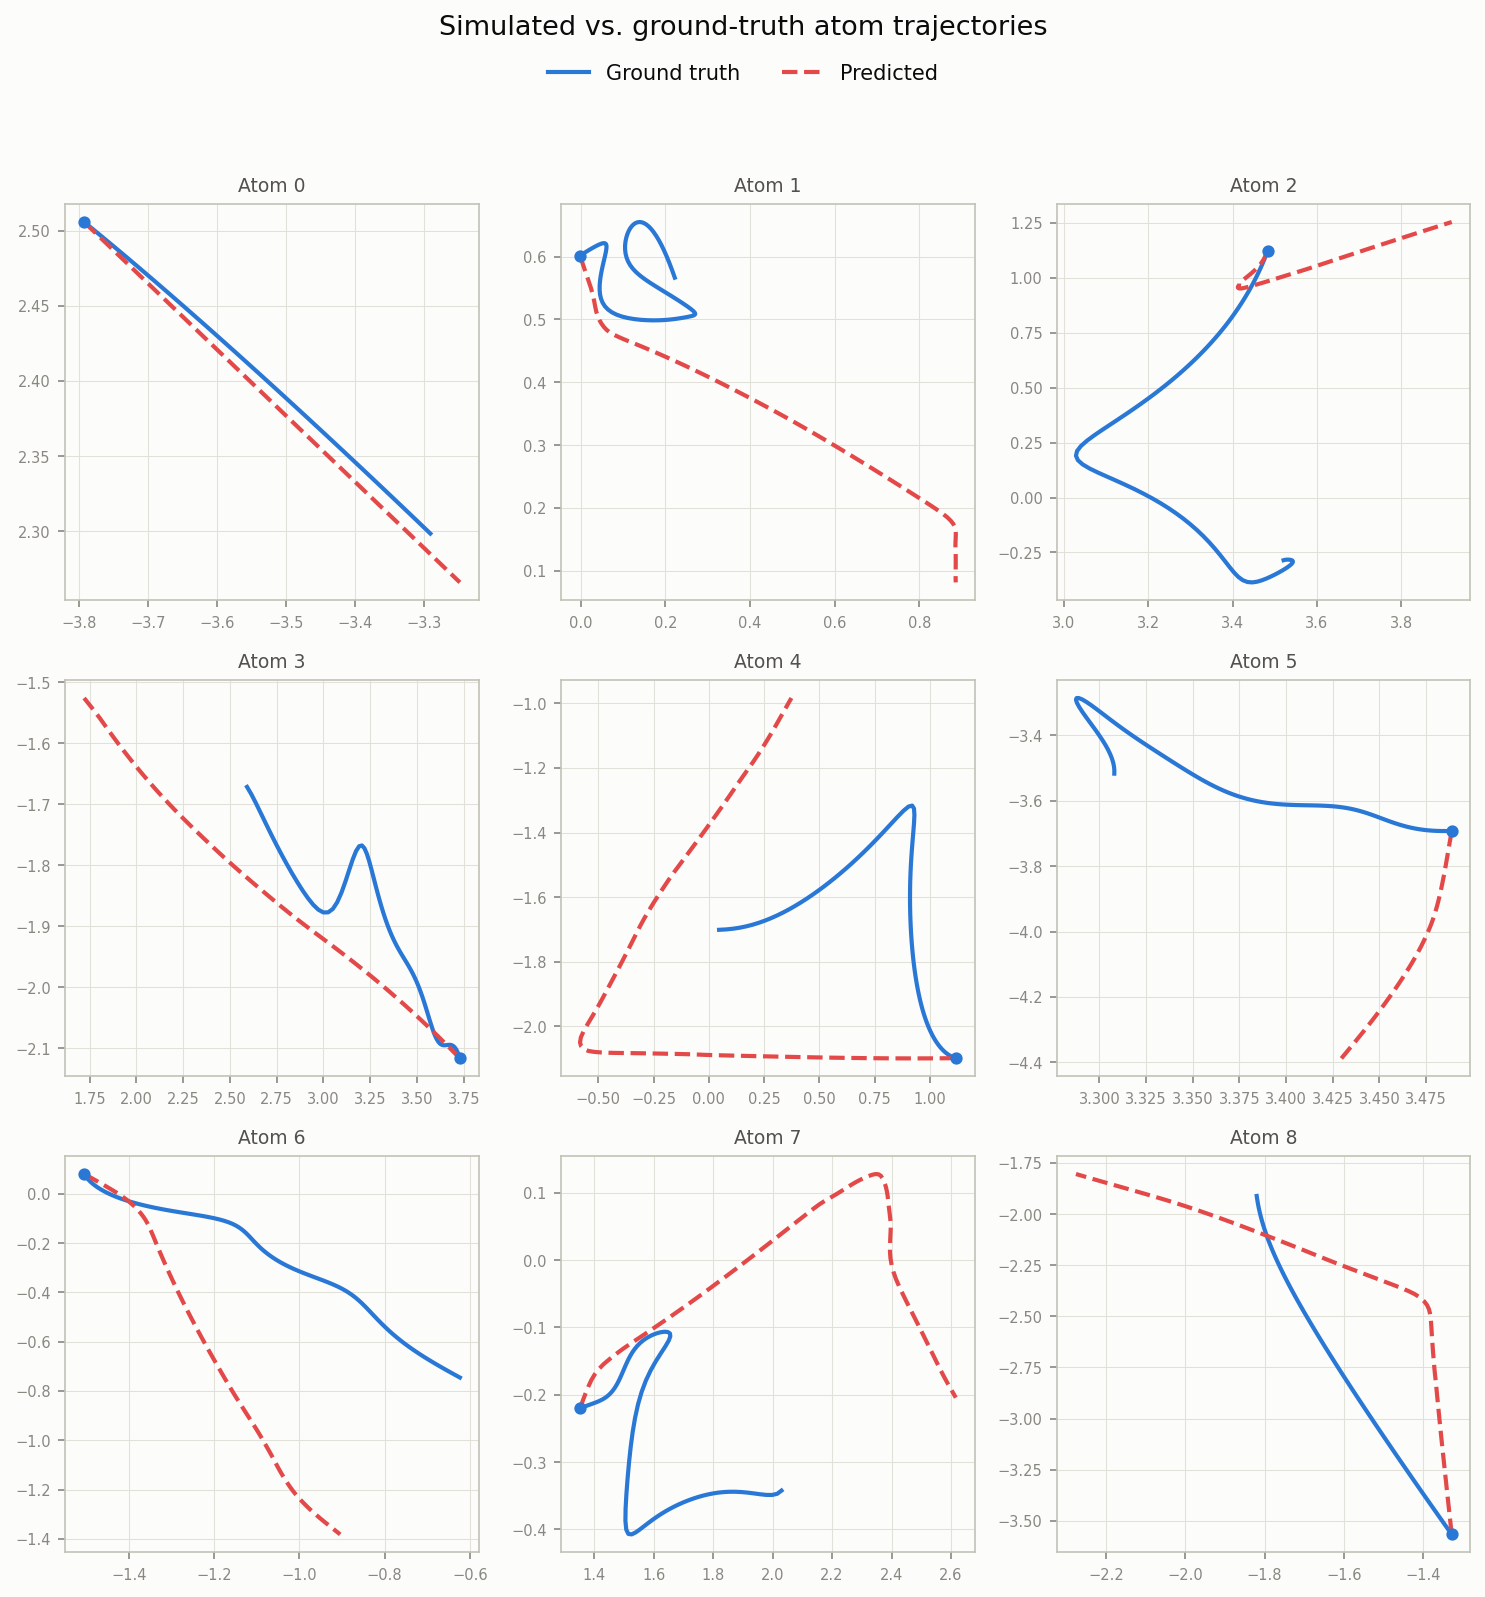
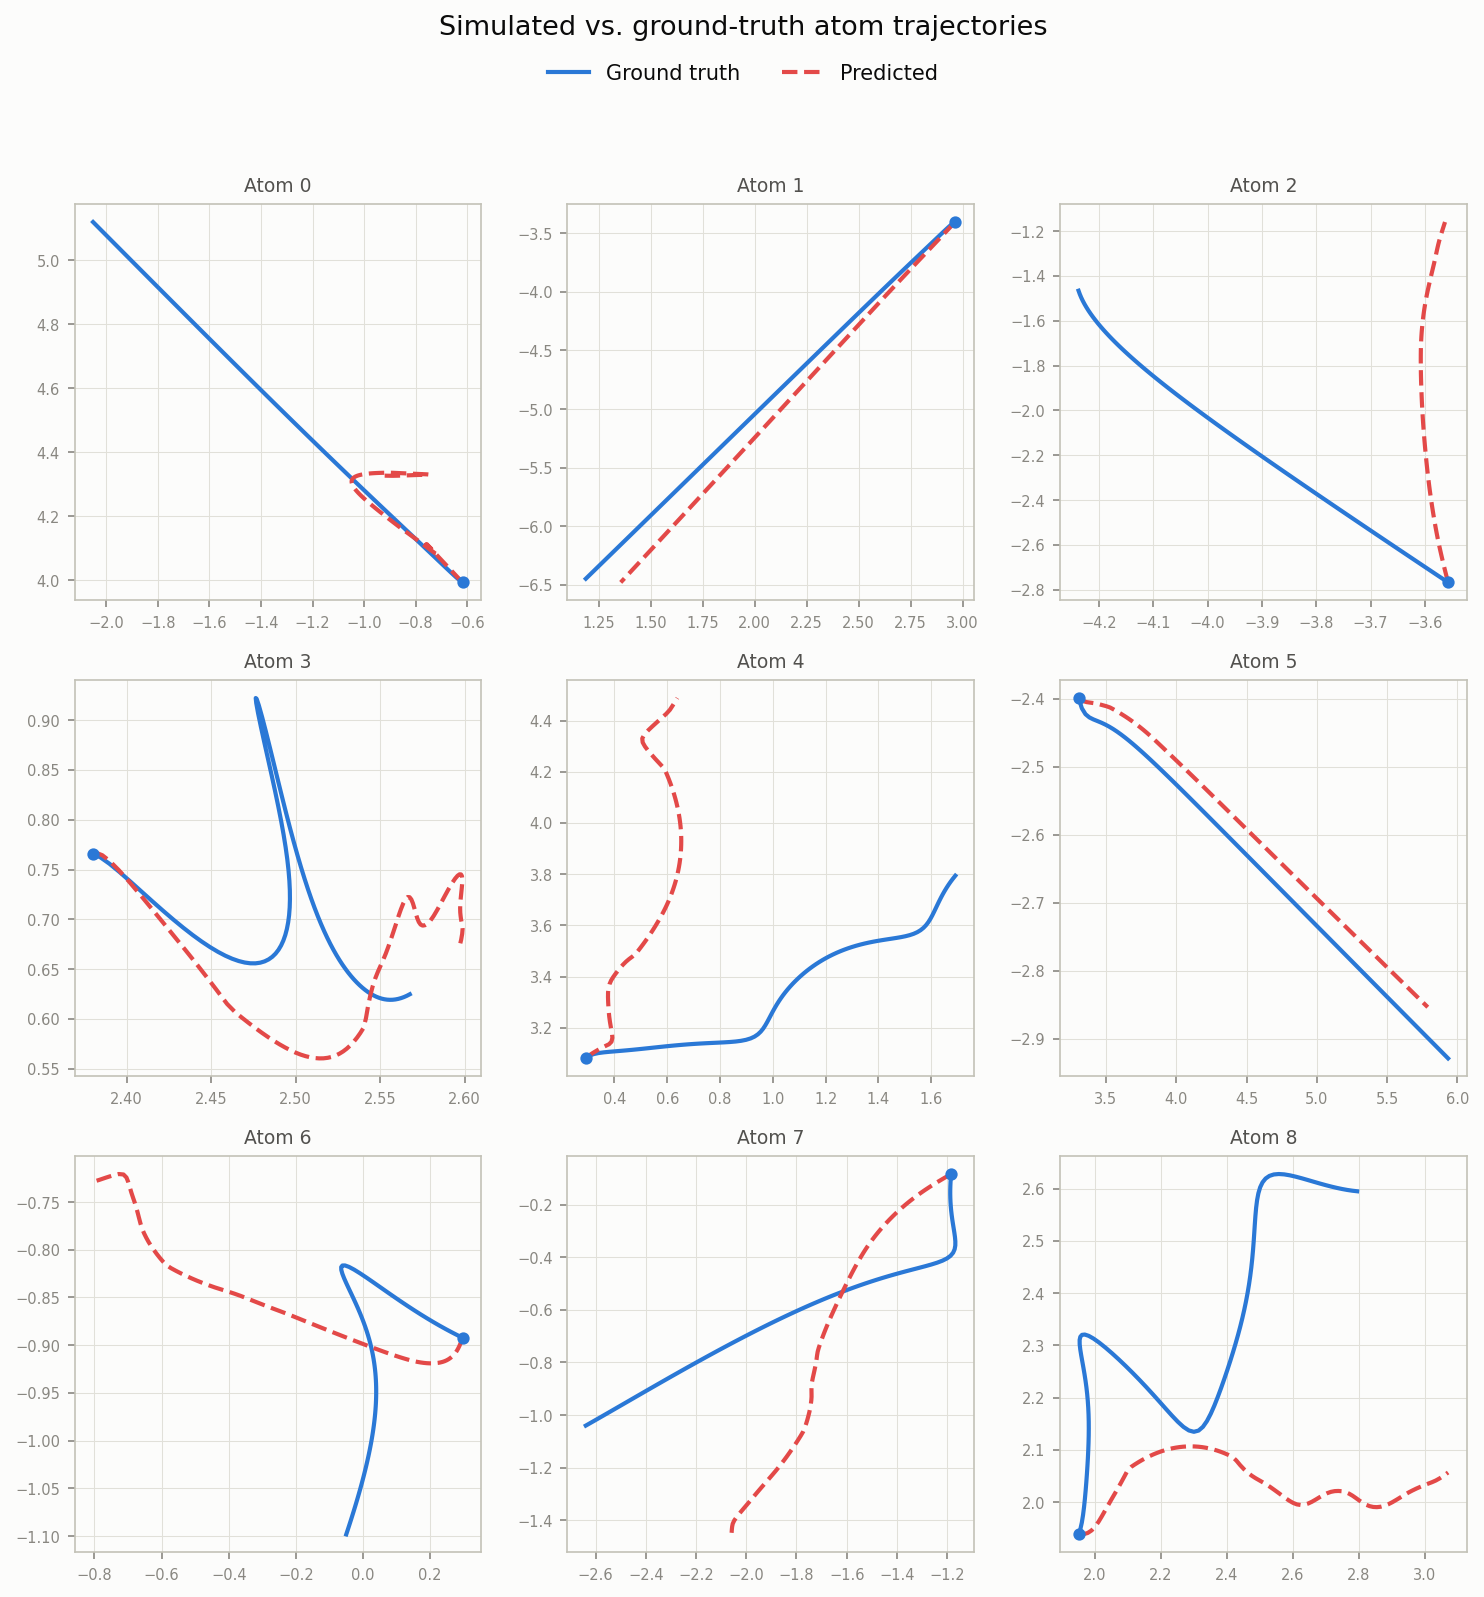
some edits for gnn

diff --git a/GNN/datagen2.py b/GNN/datagen2.py
@@ -1,0 +1,129 @@
+import numpy as np
+import torch
+from torch.utils.data import DataLoader, Dataset
+from glob import glob
+#add force to the data for training
+class molecule():
+    def __init__(self, sigma, epsilon, mass):
+        self.sigma = sigma #radius
+        self.epsilon = epsilon #polarizability
+        self.mass = mass
+        
+sample_molecules = [molecule(0.8, 0.7, 0.2), molecule(1.0, 1.0, 0.3), molecule(1.2, 1.4, 0.6), molecule(1.4, 1.9, 0.4), molecule(1.6, 2.5, 0.9)]
+
+def compute_params(i, j):
+    sigma = (sample_molecules[i].sigma + sample_molecules[j].sigma) / 2
+    epsilon = np.sqrt(sample_molecules[i].epsilon * sample_molecules[j].epsilon)
+    return sigma, epsilon
+    
+def compute_energy(positions, species):
+    V = 0
+    for i in range(9):
+        for j in range(i + 1, 9):
+            coord1 = positions[i]
+            coord2 = positions[j]
+            r = np.linalg.norm(np.array(coord1) - np.array(coord2))
+            sigma, epsilon = compute_params(species[i], species[j])
+            V_local = 4 * epsilon * ((sigma / r) ** 12 - (sigma / r) ** 6)
+            V += V_local
+            
+    return V
+    
+def compute_forces(positions, species): 
+    forces = np.zeros((9, 2))
+    for i in range(9):
+        for j in range(i + 1, 9):
+            #force on molecule i from molecule j
+            # negative of force on mol j by mol i by newtons 3rd law
+            coord1 = positions[i]
+            coord2 = positions[j]
+            r = np.linalg.norm(np.array(coord1) - np.array(coord2))
+            r_vec = np.array(coord1) - np.array(coord2)
+            sigma, epsilon = compute_params(species[i], species[j])
+            magnitude = 24 * epsilon / r * (2 * (sigma / r) ** 12 - (sigma / r) ** 6) #derivative of energy
+            forces[i] += magnitude * r_vec / r
+            forces[j] -= magnitude * r_vec / r
+    return forces
+
+def generate_random_configs():
+    #put 9 random molecules at random coordinates
+    #return species identities and positions
+    valid = False
+    while (not valid): #loop until valid config found
+        species = np.random.randint(0, 5, size=9)
+        positions = np.random.uniform(-4, 4, size=(9, 2))
+        valid = True
+        for i in range(9):
+            for j in range(i + 1, 9):
+                sigma, epsilon = compute_params(species[i], species[j])
+                coord1 = positions[i]
+                coord2 = positions[j]
+                r = np.linalg.norm(np.array(coord1) - np.array(coord2))
+                if (r < 0.85 * sigma):
+                    valid = False
+                    break
+            if (not valid):
+                break
+    
+    return species, positions
+    
+def gen_trajectory():
+    n = 1000 #1000 steps of trajectory
+    dt = 0.001 #timestepping size
+    species, positions = generate_random_configs()
+    velocities = np.random.normal(0, 1, size=(len(species), 2))
+    velocities -= velocities.mean(axis=0)  # remove net drift
+    init_velocities = velocities
+    forces = compute_forces(positions, species)
+    
+    masses = np.array([sample_molecules[species[i]].mass for i in range(9)])[:, None]  # shape (9, 1)
+    pos_vector = []
+    pos_vector.append(positions.copy())
+    for t in range(1, n):
+        positions += velocities * dt + 0.5 * forces / masses * (dt ** 2)
+        new_forces = compute_forces(positions, species)
+        velocities += 0.5 * (forces + new_forces)/ masses * dt
+        forces = new_forces
+            
+        if (t % 10 == 0):
+            pos_vector.append(positions.copy())
+            
+    return species, pos_vector, init_velocities
+
+
+class DATASET(Dataset):
+    def __init__(self, n=25000, energy_mean=None, energy_std=None, force_std=None):
+        self.examples = []
+        for i in range(n):
+            species, positions = generate_random_configs()
+            target_energy = compute_energy(positions, species)
+            target_force = compute_forces(positions, species)
+            self.examples.append((species, positions, target_energy, target_force))
+
+        for i in range(n // 100): #100 * 100 = 10000 more samples
+            species, pos_vector, _ = gen_trajectory()
+            for j in range(len(pos_vector)):
+                target_energy = compute_energy(pos_vector[j], species)
+                target_force = compute_forces(pos_vector[j], species)
+                self.examples.append((species, pos_vector[j], target_energy, target_force))
+
+        self.holdout_trajectory = gen_trajectory()
+
+        energies = np.array([e for _, _, e, _ in self.examples])
+        forces = np.array([f for _, _, _, f in self.examples])
+        # reuse the training set's stats when given, so train/test are normalized consistently
+        self.energy_mean = energy_mean if energy_mean is not None else energies.mean()
+        self.energy_std = energy_std if energy_std is not None else energies.std()
+        # forces are zero-mean (newtons 3rd law)
+        self.force_std = force_std if force_std is not None else forces.std()
+
+    def __len__(self):
+        return len(self.examples)
+
+    def __getitem__(self, idx):
+        species, positions, target_energy, target_force = self.examples[idx]
+        node_features = torch.nn.functional.one_hot(torch.tensor(species), num_classes=5).float() # one hot
+        normalized_energy = (target_energy - self.energy_mean) / self.energy_std
+        normalized_force = target_force / self.force_std
+        return node_features, np.float32(positions), np.float32(normalized_energy), np.float32(normalized_force)
+    

diff --git a/GNN/gatv2.py b/GNN/gatv2.py
@@ -4,11 +4,13 @@ import torch.nn.functional as F
 from torch.utils.data import DataLoader, Dataset
 import sys, os
 sys.path.insert(0, os.path.join(os.path.dirname(__file__), '..'))
-import GNN.datagen as datagen
+import GNN.datagen2 as datagen
 
 # GAT now
 #architectural change: instead of just aggregating neighbor hidden states, the message
 # passed will be based on the model learning to attend to the two hidden states and the edge between them
+
+#change for v2: incorporate force into loss calculation (gradient of energy should be close to true F)
 
 class GAT(nn.Module):
     def __init__(self, input_dim, edge_dim, hidden_dim):
@@ -87,36 +89,46 @@ class GAT(nn.Module):
         total_energy = input_graph.sum(dim=1)
         return total_energy.squeeze(-1)
     
+    def loss_fn(self, pred_energy, pred_force, true_energy, true_force, Lambda = 4):
+        return F.mse_loss(pred_energy, true_energy) + Lambda * F.mse_loss(pred_force, true_force)
+    
 
 num_epochs = 50
 hidden_dim = 64
 model = GAT(5, 1, hidden_dim) 
 optimizer = torch.optim.Adam(model.parameters(), lr=0.001, weight_decay=1e-4)
-loss_fn = nn.MSELoss()
 scheduler = torch.optim.lr_scheduler.CosineAnnealingLR(optimizer, T_max=num_epochs, eta_min=1e-5)
 
 train_dataset = datagen.DATASET()
-test_dataset = datagen.DATASET(1000, energy_mean=train_dataset.energy_mean, energy_std=train_dataset.energy_std)
+test_dataset = datagen.DATASET(1000, energy_mean=train_dataset.energy_mean, energy_std=train_dataset.energy_std, force_std=train_dataset.force_std)
 train_loader = DataLoader(train_dataset, batch_size = 100, shuffle = True)
 test_loader = DataLoader(test_dataset, batch_size = 100, shuffle = False)
 
 for epoch in range(num_epochs):
-    for node_features, adj_list, true_energy in train_loader:
+    for node_features, positions, true_energy, true_force in train_loader:
+        positions = positions.requires_grad_(True)
+        adj_list = torch.norm(positions.unsqueeze(2) - positions.unsqueeze(1), dim=-1)
         energy_pred = model(node_features, adj_list)
-        loss = loss_fn(energy_pred, true_energy)
+        force_pred = -torch.autograd.grad((energy_pred * train_dataset.energy_std).sum(), positions, create_graph=True)[0]
+        force_pred = force_pred / train_dataset.force_std # normalize
+        loss = model.loss_fn(energy_pred, force_pred, true_energy, true_force)
         loss.backward()
+        torch.nn.utils.clip_grad_norm_(model.parameters(), 1.0)
         optimizer.step()
         optimizer.zero_grad()
     scheduler.step()
     
-    with torch.no_grad():
-        total_loss = 0
-        for node_features, adj_list, true_energy in test_loader:
-            energy_pred = model(node_features, adj_list)
-            loss = loss_fn(energy_pred, true_energy)
-            total_loss += loss
-            
-        print(f"Epoch {epoch}, loss = {total_loss}")
+    total_loss = 0
+    for node_features, positions, true_energy, true_force in test_loader:
+        positions = positions.requires_grad_(True)
+        adj_list = torch.norm(positions.unsqueeze(2) - positions.unsqueeze(1), dim=-1)
+        energy_pred = model(node_features, adj_list)
+        force_pred = -torch.autograd.grad((energy_pred * train_dataset.energy_std).sum(), positions)[0]
+        force_pred = force_pred / train_dataset.force_std # normalize 
+        loss = model.loss_fn(energy_pred, force_pred, true_energy, true_force)
+        total_loss += loss.item()
+        
+    print(f"Epoch {epoch}, loss = {total_loss}")
 
 #lets try out a full trajectory now, and see how we deviate
 
@@ -131,7 +143,7 @@ def simulate_trajectory(species, positions, init_velocities):
     def energy_and_forces(pos):
         diffs = pos.unsqueeze(2) - pos.unsqueeze(1)
         adj_list = torch.norm(diffs, dim=-1)  # differentiable
-        energy_pred = model(node_features, adj_list) * train_dataset.energy_std  # unnormalize 
+        energy_pred = model(node_features, adj_list) * train_dataset.energy_std # unnormalize 
         forces_pred = -torch.autograd.grad(energy_pred.sum(), pos)[0]
         return forces_pred
 
@@ -160,9 +172,9 @@ sol2 = simulate_trajectory(species2, pos_vector2[0], init_velocities2)
 
 from GNN.plot import plot_trajectory_paths, plot_deviation
 
-plot_trajectory_paths(pos_vector1, sol1, save_path="GNN/gat_results/traj1_paths.png")
-plot_deviation(pos_vector1, sol1, dt_per_snapshot=0.01, save_path="GNN/gat_results/traj1_deviation.png")
+plot_trajectory_paths(pos_vector1, sol1, save_path="GNN/gat2_results/traj1_paths.png")
+plot_deviation(pos_vector1, sol1, dt_per_snapshot=0.01, save_path="GNN/gat2_results/traj1_deviation.png")
 
-plot_trajectory_paths(pos_vector2, sol2, save_path="GNN/gat_results/traj2_paths.png")
-plot_deviation(pos_vector2, sol2, dt_per_snapshot=0.01, save_path="GNN/gat_results/traj2_deviation.png")
+plot_trajectory_paths(pos_vector2, sol2, save_path="GNN/gat2_results/traj2_paths.png")
+plot_deviation(pos_vector2, sol2, dt_per_snapshot=0.01, save_path="GNN/gat2_results/traj2_deviation.png")
 

diff --git a/GNN/compare_models.py b/GNN/compare_models.py
@@ -1,0 +1,96 @@
+import ast
+import torch
+import torch.nn as nn
+import torch.nn.functional as F
+import numpy as np
+from torch.utils.data import DataLoader
+import datagen2 as datagen
+
+
+#compare all 3 models
+#partially claude written
+def load_class(path, name):
+    src = open(path).read()
+    tree = ast.parse(src)
+    node = next(n for n in tree.body if isinstance(n, ast.ClassDef) and n.name == name)
+    ns = {'torch': torch, 'nn': nn, 'F': F, 'hidden_dim': 64}
+    exec(ast.get_source_segment(src, node), ns)
+    return ns[name]
+
+
+GCN = load_class('GNN/gcn.py', 'GCN')
+GAT = load_class('GNN/gatv2.py', 'GAT')  # same architecture for both GATs
+
+torch.manual_seed(0)
+np.random.seed(0)
+train = datagen.DATASET(n=10000)
+test = datagen.DATASET(n=1000, energy_mean=train.energy_mean, energy_std=train.energy_std, force_std=train.force_std)
+ESTD, FSTD, EMEAN = train.energy_std, train.force_std, train.energy_mean
+print(f"energy_std={ESTD:.3f}, force_std={FSTD:.3f}")
+
+def loader(ds, shuffle):
+    g = torch.Generator(); g.manual_seed(0)  
+    return DataLoader(ds, batch_size=100, shuffle=shuffle, generator=g)
+
+def build_adj(pos):
+    return torch.norm(pos.unsqueeze(2) - pos.unsqueeze(1), dim=-1)
+
+def train_model(model, use_force, epochs=40, lr=1e-3):
+    opt = torch.optim.Adam(model.parameters(), lr=lr, weight_decay=1e-4)
+    sched = torch.optim.lr_scheduler.CosineAnnealingLR(opt, T_max=epochs, eta_min=1e-5)
+    trl = loader(train, shuffle=True)
+    for ep in range(epochs):
+        for nf, pos, ne, nfrc in trl:
+            if use_force: #only gat v2
+                pos = pos.requires_grad_(True)
+                e_pred = model(nf, build_adj(pos))
+                f_pred = -torch.autograd.grad((e_pred * ESTD).sum(), pos, create_graph=True)[0] / FSTD
+                loss = F.mse_loss(e_pred, ne) + 4 * F.mse_loss(f_pred, nfrc)
+            else:
+                e_pred = model(nf, build_adj(pos))
+                loss = F.mse_loss(e_pred, ne)
+            loss.backward(); opt.step(); opt.zero_grad()
+        sched.step()
+    return model
+
+def evaluate(model):
+    tel = loader(test, shuffle=False)
+    se_e = n_e = se_f = n_f = 0
+    for nf, pos, ne, nfrc in tel:
+        pos = pos.requires_grad_(True)
+        e_pred = model(nf, build_adj(pos))
+        f_pred_phys = -torch.autograd.grad((e_pred * ESTD).sum(), pos)[0]  # physical units
+        true_f_phys = nfrc * FSTD
+        se_f += ((f_pred_phys - true_f_phys) ** 2).sum().item(); n_f += true_f_phys.numel()
+        e_pred_phys = (e_pred * ESTD + EMEAN).detach()
+        true_e_phys = ne * ESTD + EMEAN
+        se_e += ((e_pred_phys - true_e_phys) ** 2).sum().item(); n_e += true_e_phys.numel()
+    return (se_e / n_e) ** 0.5, (se_f / n_f) ** 0.5
+
+
+configs = [
+    ("GCN  (energy only)",  GCN(5, 1, 64), False),
+    ("GAT  (energy only)",  GAT(5, 1, 64), False),
+    ("GAT  (energy+force)", GAT(5, 1, 64), True),
+]
+
+results = []
+for name, model, use_force in configs:
+    print(f"training {name} ...", flush=True)
+    train_model(model, use_force)
+    e_rmse, f_rmse = evaluate(model)
+    results.append((name, e_rmse, f_rmse))
+
+print()
+for name, e_rmse, f_rmse in results:
+    print(f"{name}: energy RMSE {e_rmse:.3f}, force RMSE {f_rmse:.3f}")
+
+
+# energy_std=7.559, force_std=32.922
+# training GCN  (energy only) ...
+# training GAT  (energy only) ...
+# training GAT  (energy+force) ...
+
+# GCN  (energy only): energy RMSE 1.753, force RMSE 14.147
+# GAT  (energy only): energy RMSE 0.309, force RMSE 3.930
+# GAT  (energy+force): energy RMSE 0.440, force RMSE 2.653

diff --git a/GNN/gcn.py b/GNN/gcn.py
@@ -2,8 +2,6 @@ import torch
 import torch.nn as nn
 import torch.nn.functional as F
 from torch.utils.data import DataLoader, Dataset
-from kornia.losses import ssim_loss
-import wandb
 import sys, os
 sys.path.insert(0, os.path.join(os.path.dirname(__file__), '..'))
 import GNN.datagen as datagen
@@ -46,9 +44,9 @@ class GCN(nn.Module):
         input_graph = self.node_embedder(input_graph)
         for layer in self.layers[:-1]:
             transfer_layer, state_layer = layer[0], layer[1]
-            message = edges @ transfer_layer(input_graph) 
-            state_update = state_layer(input_graph)
-            input_graph = F.relu(state_update + message)
+            message = edges @ transfer_layer(input_graph) #transform the input graph, and then mask by the edges
+            state_update = state_layer(input_graph) #chooses how much of the current state to retain
+            input_graph = F.relu(state_update + message) #update
             
         layer = self.layers[-1]
         transfer_layer, state_layer = layer[0], layer[1]
@@ -73,6 +71,8 @@ test_loader = DataLoader(test_dataset, batch_size = 100, shuffle = False)
 
 for epoch in range(num_epochs):
     for node_features, adj_list, true_energy in train_loader:
+        #node_features is 9x5: 9 rows, each one 1-hot encoded
+        #adj_list is a 9x9 matrix where each entry is the dist between molecule i and j
         energy_pred = model(node_features, adj_list)
         loss = loss_fn(energy_pred, true_energy)
         loss.backward()
@@ -102,7 +102,7 @@ def simulate_trajectory(species, positions, init_velocities):
     def energy_and_forces(pos):
         diffs = pos.unsqueeze(2) - pos.unsqueeze(1)
         adj_list = torch.norm(diffs, dim=-1)  # differentiable
-        energy_pred = model(node_features, adj_list)
+        energy_pred = model(node_features, adj_list) * train_dataset.energy_std  # unnormalize
         forces_pred = -torch.autograd.grad(energy_pred.sum(), pos)[0]
         return forces_pred
 
@@ -131,9 +131,9 @@ sol2 = simulate_trajectory(species2, pos_vector2[0], init_velocities2)
 
 from GNN.plot import plot_trajectory_paths, plot_deviation
 
-plot_trajectory_paths(pos_vector1, sol1, save_path="GNN/LJ_potentials/gcn_results/traj1_paths.png")
-plot_deviation(pos_vector1, sol1, dt_per_snapshot=0.01, save_path="GNN/LJ_potentials/gcn_results/traj1_deviation.png")
+plot_trajectory_paths(pos_vector1, sol1, save_path="GNN/gcn_results/traj1_paths.png")
+plot_deviation(pos_vector1, sol1, dt_per_snapshot=0.01, save_path="GNN/gcn_results/traj1_deviation.png")
 
-plot_trajectory_paths(pos_vector2, sol2, save_path="GNN/LJ_potentials/gcn_results/traj2_paths.png")
-plot_deviation(pos_vector2, sol2, dt_per_snapshot=0.01, save_path="GNN/LJ_potentials/gcn_results/traj2_deviation.png")
+plot_trajectory_paths(pos_vector2, sol2, save_path="GNN/gcn_results/traj2_paths.png")
+plot_deviation(pos_vector2, sol2, dt_per_snapshot=0.01, save_path="GNN/gcn_results/traj2_deviation.png")
 
